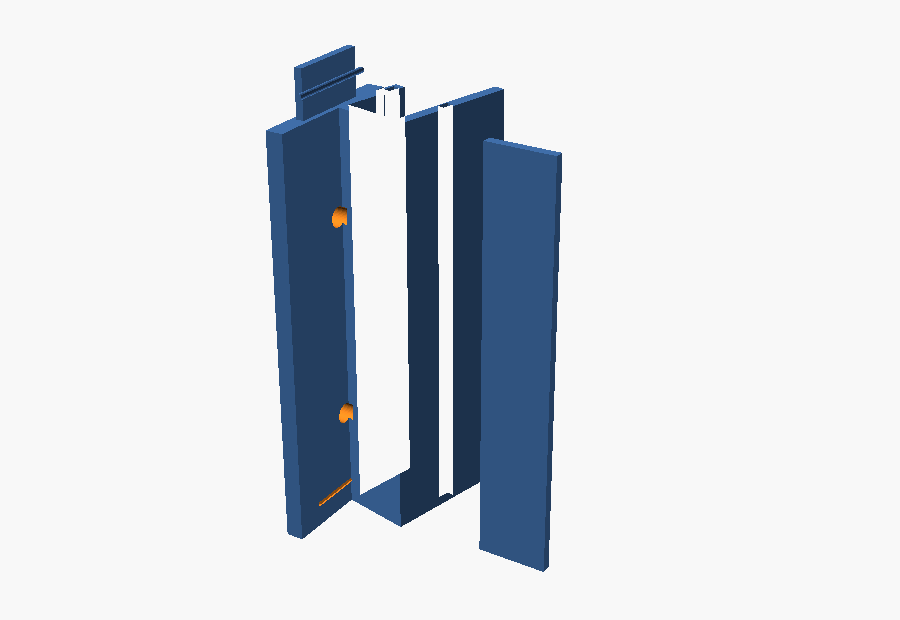
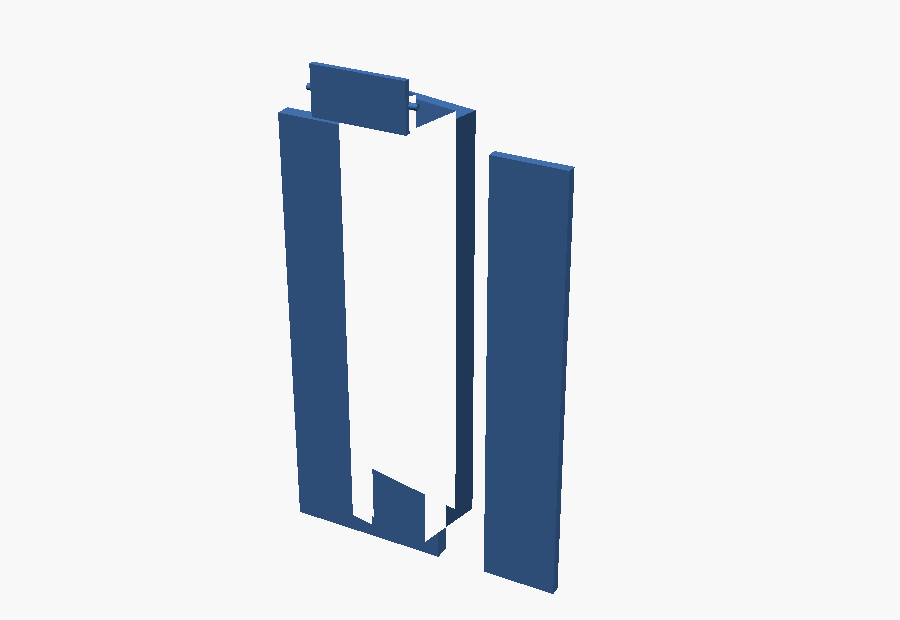
LED : semelle collee a plat au lieu d'une platine vissee
L'utilisateur n'a pas de mur a percer mais une bordure plate tout du
long, et colle. La platine verticale a visser devient une SEMELLE
plate et large, qui offre de la surface a l'adhesif ; le canal
s'incline dessus pour viser le mur. Les percages restent possibles
mais sont a zero par defaut.

L'angle se compte maintenant depuis la VERTICALE : 0 tire droit vers
le haut, 90 rase la bordure, positif penche vers le mur. La visiere
reste du cote de la volee, celui d'ou l'on regarde.

Le tenon passe dans la semelle, et le segment s'imprime posé dessus :
la face qui sera collee est celle du plateau, donc bien plate.

Verifie de 0 a 88 degres : Simple yes, 2 volumes.

Changed region(s): [[0.28, 0.0613, 0.6533, 0.95]]

diff --git a/led-builder.html b/led-builder.html
@@ -236,7 +236,7 @@
   <div class="bb-side">
     <div class="group"><h2>Ruban et canal</h2><div class="insp" id="gCan"></div></div>
     <div class="group"><h2>Diffuseur</h2><div class="insp" id="gDif"></div></div>
-    <div class="group"><h2>Platine</h2><div class="insp" id="gPla"></div></div>
+    <div class="group"><h2>Semelle collée</h2><div class="insp" id="gPla"></div></div>
     <div class="group"><h2>Segment et raccord</h2><div class="insp" id="gSeg"></div></div>
     <div class="group"><h2>Modèles</h2><div class="insp" id="gTpl"></div></div>
   </div>
@@ -244,7 +244,7 @@
     <div class="bb-stats" id="dstats"></div>
     <div id="dnotes"></div>
     <div class="bb-figs">
-      <div><div id="figSec"></div><div class="bb-cap">Coupe · faisceau en jaune · au-delà de la visière, en vert, les LED sont invisibles</div></div>
+      <div><div id="figSec"></div><div class="bb-cap">Coupe · collé sur la bordure · faisceau en jaune, mur à gauche · en vert, les LED sont invisibles</div></div>
       <div><div id="figJoin"></div><div class="bb-cap">Raccord · deux segments emboîtés</div></div>
     </div>
   </div>
@@ -287,8 +287,8 @@ const CHAMPS = [
     ['diff_clr',  'Jeu',           0, 1, 0.05],
   ]],
   ['gPla', [
-    ['plate_h', 'Hauteur',  8, 90, 1],
-    ['plate_t', 'Épaisseur', 2, 10, 0.5],
+    ['base_w',  'Largeur',   8, 90, 1],
+    ['base_t',  'Épaisseur', 1.2, 10, 0.5],
     ['screw_d', 'Ø perçage', 2,  8, 0.2],
     ['screw_n', 'Vis / segment', 0, 8, 1],
   ]],
@@ -302,15 +302,15 @@ const CHAMPS = [
 const DEFAUT = () => ({
   strip_w: 10, chan_d: 12, angle: 78, visor: 10, wall_t: 2,
   diff_t: 1.6, diff_grip: 1.2, diff_clr: 0.25,
-  plate_h: 26, plate_t: 3, screw_d: 3.4, screw_n: 2,
+  base_w: 26, base_t: 2.5, screw_d: 3.4, screw_n: 0,
   seg_len: 200, join_len: 8, join_clr: 0.25,
 });
 
 const MODELES = {
-  'Lèche-mur d’escalier': { angle: 78, visor: 12, chan_d: 12, plate_h: 26 },
-  'Plein axe': { angle: 0, visor: 0, chan_d: 10, plate_h: 20 },
-  'Sous-nez de marche': { angle: 55, visor: 16, chan_d: 14, plate_h: 30 },
-  'Rasant, très abrité': { angle: 86, visor: 22, chan_d: 16, plate_h: 34 },
+  'Lèche-mur d’escalier': { angle: 72, visor: 12, chan_d: 12, base_w: 26 },
+  'Plein axe, vers le haut': { angle: 0, visor: 0, chan_d: 10, base_w: 18 },
+  'Mi-hauteur': { angle: 45, visor: 14, chan_d: 14, base_w: 24 },
+  'Rasant, très abrité': { angle: 84, visor: 22, chan_d: 16, base_w: 34 },
 };
 
 let etat = DEFAUT();
@@ -322,25 +322,27 @@ try { const s = JSON.parse(localStorage.getItem('ledbuilder') || 'null');
 // ---------------------------------------------------------------
 function cotes() {
   const e = etat;
-  const th = rad(e.angle - 90);
+  const th = rad(e.angle);
   const hu = e.strip_w / 2 + e.wall_t;
   const hv = e.wall_t + e.chan_d;
   const coins = [[-hu, 0], [hu, 0], [hu, hv + e.visor], [-hu, hv]];
+  const ry = coins.map(p => p[0] * Math.sin(th) + p[1] * Math.cos(th));
   const rx = coins.map(p => p[0] * Math.cos(th) - p[1] * Math.sin(th));
-  const dx = e.plate_t - Math.min(...rx) - e.wall_t;
-  // passage du repère canal au repère mur
+  const dy = e.base_t - Math.min(...ry) - e.wall_t;
+  const dx = e.base_w / 2 - (Math.min(...rx) + Math.max(...rx)) / 2;
+  // passage du repère canal au repère de la bordure
   const M = (u, v) => [dx + u * Math.cos(th) - v * Math.sin(th),
-                       u * Math.sin(th) + v * Math.cos(th)];
+                       dy + u * Math.sin(th) + v * Math.cos(th)];
   // rayons limites : d'un bord du ruban par-dessus la lèvre opposée
   const A0 = M(-e.strip_w / 2, e.wall_t), A1 = M(e.strip_w / 2, hv + e.visor);
   const B0 = M(e.strip_w / 2, e.wall_t),  B1 = M(-e.strip_w / 2, hv);
-  // Angle par rapport AU MUR, pas à sa normale : 0 = rasant le support,
-  // 90 = plein axe. C'est ainsi qu'on raisonne sur un lèche-mur.
-  const ang = (p, q) => deg(Math.atan2(q[0] - p[0], q[1] - p[1]));
-  return { th, hu, hv, dx, M, A0, A1, B0, B1,
+  // Angle par rapport à la VERTICALE : 0 = plein axe vers le haut,
+  // 90 = rasant la bordure. Positif = penché vers le mur (-x).
+  const ang = (p, q) => deg(Math.atan2(p[0] - q[0], q[1] - p[1]));
+  const ys = coins.map(p => dy + p[0] * Math.sin(th) + p[1] * Math.cos(th));
+  return { th, hu, hv, dx, dy, M, A0, A1, B0, B1,
            aVisor: ang(A0, A1), aOpen: ang(B0, B1),
-           saillie: Math.max(...coins.map((p, i) =>
-             dx + p[0] * Math.cos(th) - p[1] * Math.sin(th))) };
+           haut: Math.max(...ys), large: e.base_w };
 }
 
 function alertes(c) {
@@ -349,16 +351,14 @@ function alertes(c) {
     out.push(['dur', `Rainures de ${e.diff_grip} pour un jeu de ${e.diff_clr} : le diffuseur ne tiendrait pas.`]);
   if (e.chan_d < e.diff_t + e.diff_grip + 1)
     out.push(['dur', `Canal de ${e.chan_d} trop court pour loger le diffuseur (${e.diff_t}) et ses rainures.`]);
-  if (e.plate_h < e.strip_w + 6)
-    out.push(['mou', `Platine de ${e.plate_h} pour un canal de ${r1(2 * c.hu)} : peu d’assise, le profil vrillera au vissage.`]);
-  // la vis TRAVERSE la platine : c'est sa hauteur qui doit entourer le
-  // trou, pas son épaisseur
-  if (e.screw_n > 0 && e.plate_h < e.screw_d + 6)
-    out.push(['mou', `Platine haute de ${e.plate_h} percée à ${e.screw_d} : moins de 3 mm de matière autour de la vis.`]);
+  if (e.base_w < 2 * c.hu + 4)
+    out.push(['mou', `Semelle de ${e.base_w} sous un canal de ${r1(2 * c.hu)} : peu de surface pour l’adhésif, ça décollera.`]);
+  if (e.screw_n > 0 && e.base_w < e.screw_d + 8)
+    out.push(['mou', `Semelle de ${e.base_w} percée à ${e.screw_d} : moins de 4 mm de matière autour de la vis.`]);
   if (e.join_len > 0 && e.join_len < 5)
     out.push(['mou', `Raccord de ${e.join_len} mm : trop court pour tenir l’alignement.`]);
-  if (c.aVisor > 45)
-    out.push(['mou', `Le faisceau sort jusqu’à ${r1(c.aVisor)}° du mur : à cet angle on regarde les LED en face. Rallonge la visière ou incline davantage.`]);
+  if (c.aVisor < 35)
+    out.push(['mou', `La visière ne coupe qu’à ${r1(c.aVisor)}° de la verticale : depuis la volée on verra les LED. Rallonge-la ou incline davantage.`]);
   return out;
 }
 
@@ -374,8 +374,7 @@ function figSec(c) {
                c.M(hu - e.wall_t, hv + e.visor), c.M(hu - e.wall_t, e.wall_t),
                c.M(-hu + e.wall_t, e.wall_t), c.M(-hu + e.wall_t, hv),
                c.M(-hu, hv)];
-  const plaque = [[0, -e.plate_h / 2], [e.plate_t, -e.plate_h / 2],
-                  [e.plate_t, e.plate_h / 2], [0, e.plate_h / 2]];
+  const plaque = [[0, 0], [e.base_w, 0], [e.base_w, e.base_t], [0, e.base_t]];
   const ruban = [c.M(-e.strip_w / 2, e.wall_t), c.M(e.strip_w / 2, e.wall_t),
                  c.M(e.strip_w / 2, e.wall_t + 1.2), c.M(-e.strip_w / 2, e.wall_t + 1.2)];
   const dif = [c.M(-e.strip_w / 2 - e.diff_grip, hv - e.diff_t),
@@ -399,8 +398,8 @@ function figSec(c) {
   const k = L / Math.hypot(c.A1[0] - c.A0[0], c.A1[1] - c.A0[1]);
   const kb = L / Math.hypot(c.B1[0] - c.B0[0], c.B1[1] - c.B0[1]);
   let g = `<svg viewBox="0 0 ${r1(w)} ${r1(h)}" width="${r1(w)}" height="${r1(h)}">`;
-  // le support
-  g += `<line x1="${r1(X([0, y0]))}" y1="0" x2="${r1(X([0, y0]))}" y2="${r1(h)}" stroke="#3d475c" stroke-width="1.4"/>`;
+  // la bordure sur laquelle on colle
+  g += `<line x1="0" y1="${r1(Y([0, 0]))}" x2="${r1(w)}" y2="${r1(Y([0, 0]))}" stroke="#3d475c" stroke-width="1.4"/>`;
   // cône éclairé
   g += `<polygon points="${D([c.A0, loin(c.A0, c.A1, k), loin(c.B0, c.B1, kb), c.B0])}" fill="rgba(240,200,90,.16)" stroke="none"/>`;
   for (const [p, q, kk, col] of [[c.A0, c.A1, k, '#f0c85a'], [c.B0, c.B1, kb, '#f0c85a']])
@@ -408,7 +407,7 @@ function figSec(c) {
   // Au-delà du rayon de la visière il n'y a plus de lumière directe :
   // c'est la zone d'où l'on ne voit PAS les LED, celle qu'on cherche.
   const bout = loin(c.A0, c.A1, k);
-  g += `<polygon points="${D([c.A0, bout, [x1, bout[1]], [x1, c.A0[1]]])}" fill="rgba(105,210,160,.08)" stroke="none"/>`;
+  g += `<polygon points="${D([c.A0, bout, [x1, bout[1]], [x1, c.A0[1]]])}" fill="rgba(105,210,160,.10)" stroke="none"/>`;
   // matière
   g += `<polygon points="${D(plaque)}" fill="rgba(127,199,255,.20)" stroke="#7fc7ff" stroke-width="1.3"/>`;
   g += `<polygon points="${D(ext)}" fill="rgba(127,199,255,.20)" stroke="#7fc7ff" stroke-width="1.3"/>`;
@@ -423,16 +422,16 @@ function figSec(c) {
 // ---------------------------------------------------------------
 function figJoin(c) {
   const e = etat;
-  const jw = Math.max(Math.min(e.plate_h - 6, 14), 5);
+  const jw = Math.max(Math.min(e.base_w - 6, 16), 5);
   const Ltot = e.seg_len + e.join_len;
-  const W = 300, S = Math.min(W / (2 * Ltot + 20), 120 / (e.plate_h + 8));
-  const w = (2 * Ltot + 20) * S + 16, h = (e.plate_h + 16) * S + 16;
+  const W = 300, S = Math.min(W / (2 * Ltot + 20), 120 / (e.base_w + 8));
+  const w = (2 * Ltot + 20) * S + 16, h = (e.base_w + 16) * S + 16;
   const X = x => 8 + (x + 10) * S, Y = y => h / 2 - y * S;
   const R = (x, y, dx2, dy2, f, st, da) =>
     `<rect x="${r1(X(x))}" y="${r1(Y(y + dy2))}" width="${r1(dx2 * S)}" height="${r1(dy2 * S)}" fill="${f}" stroke="${st}" stroke-width="1.1"${da ? ' stroke-dasharray="4 3"' : ''}/>`;
   let g = `<svg viewBox="0 0 ${r1(w)} ${r1(h)}" width="${r1(w)}" height="${r1(h)}">`;
   for (const off of [0, Ltot]) {
-    g += R(off, -e.plate_h / 2, e.seg_len, e.plate_h, 'rgba(127,199,255,.18)', '#7fc7ff');
+    g += R(off, -e.base_w / 2, e.seg_len, e.base_w, 'rgba(127,199,255,.18)', '#7fc7ff');
     if (e.join_len > 0)
       g += R(off + e.seg_len, -jw / 2, e.join_len, jw, 'rgba(240,179,80,.30)', '#f0b350');
   }
@@ -485,11 +484,11 @@ function construire() {
 
 function rendre(refaire = true) {
   const c = cotes();
-  $('ddims').textContent = `saillie ${r1(c.saillie)} mm · segment ${etat.seg_len}`;
+  $('ddims').textContent = `${r1(c.large)} × ${r1(c.haut)} mm · segment ${etat.seg_len}`;
   $('dstats').innerHTML =
-    `<div class="bb-stat"><b>${r1(c.aVisor)}°</b><span>bord côté visière</span></div>` +
+    `<div class="bb-stat"><b>${r1(c.aVisor)}°</b><span>coupe de la visière</span></div>` +
     `<div class="bb-stat"><b>${r1(c.aOpen)}°</b><span>bord côté mur</span></div>` +
-    `<div class="bb-stat"><b>${r1(c.saillie)} mm</b><span>saillie au mur</span></div>` +
+    `<div class="bb-stat"><b>${r1(c.haut)} mm</b><span>hauteur hors tout</span></div>` +
     `<div class="bb-stat"><b>${etat.seg_len} mm</b><span>par segment</span></div>`;
   const al = alertes(c);
   $('dnotes').innerHTML = al.map(([k, m]) =>

diff --git a/docs/LED-Profile-Builder.md b/docs/LED-Profile-Builder.md
@@ -12,38 +12,42 @@ Two parts:
 
 ## The idea
 
-The profile screws to a support — a wall, the underside of a stair
-nosing, a ceiling. The channel that carries the strip is **tilted**
-relative to that support, and that tilt is what sends the light where
-you want it. A **visor** extends the jaw on the eye side so the LEDs
-are never seen head-on.
+The profile is **glued flat** on a border — a stair stringer, a skirting,
+a shelf edge. No bracket, no screws: a wide sole gives the tape
+something to hold. The channel that carries the strip is **tilted** on
+that sole, and the tilt is what sends the light where you want it. A
+**visor** extends the jaw on the eye side so the LEDs are never seen
+head-on.
 
 | | |
 |---|---|
-| Tilt | 0° = straight out, 90° = grazing along the support |
+| Tilt | 0° = straight up, 90° = grazing the border. Positive leans toward the wall |
 | Depth | how far the strip is recessed |
 | Visor | extra length on the shielded jaw |
+| Sole | width and thickness of the glued foot |
+
+Screw holes remain available — set *Screws per segment* above 0 — but
+they default to none.
 
 ## Reading the section
 
 The live section draws the beam in yellow between its two limiting
 rays — from one edge of the strip over the opposite lip. Both angles
-are given **relative to the support**, not to its normal, because that
-is how you think about a wall-grazer: 0° hugs the wall, 90° fires
-straight out.
+are given **from the vertical**: 0° fires straight up, 90° grazes the
+border. In the drawing the wall is on the left.
 
 Beyond the visor's ray the light stops, so the LEDs cannot be seen
 from there: that zone is shaded green. For a staircase, the number to
 watch is the **visor-side edge** — the smaller it is, the further you
 have to lean out before the strip glares at you.
 
-The *Stair wall-grazer* preset lands at 36° on the visor side and −28°
-on the wall side: a beam straddling the wall, invisible from the
-steps.
+What matters on a staircase is the **visor's cut-off**: the larger it
+is, the further you have to lean over the steps before the strip
+glares at you. Under 35° the panel says so.
 
 ## Joining segments
 
-The tenon is cut in the **plate**, the only part thick enough for it,
+The tenon is cut in the **sole**, the only part thick enough for it,
 with a small ridge that clicks into the matching groove. Building it
 as a shrunken copy of the whole section does not work: on 2 mm jaws an
 inward offset erases them and the tenon comes out as a loose sliver.
@@ -55,5 +59,6 @@ the plate and left the two detached.
 
 ## Printing
 
-The segment prints lying on its mounting plate. Segment length is
+The segment prints lying on its sole — the face that gets glued is the
+one on the bed, so it comes out flat. Segment length is
 yours to set — cut it to your bed and clip as many as the run needs.
